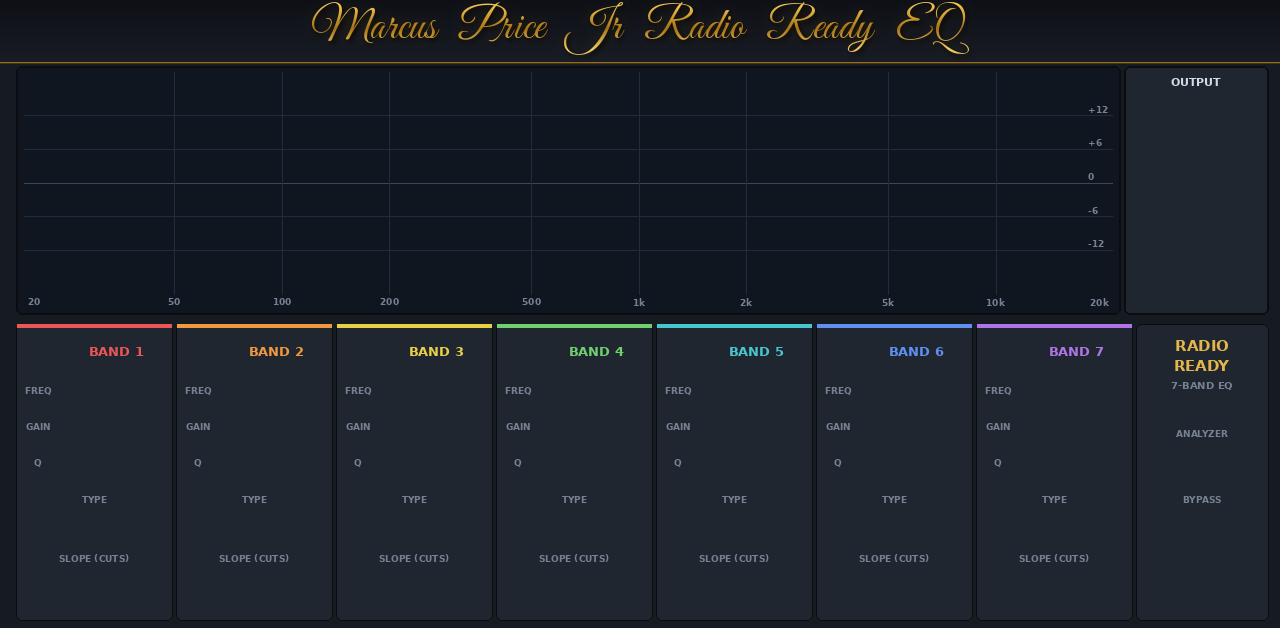
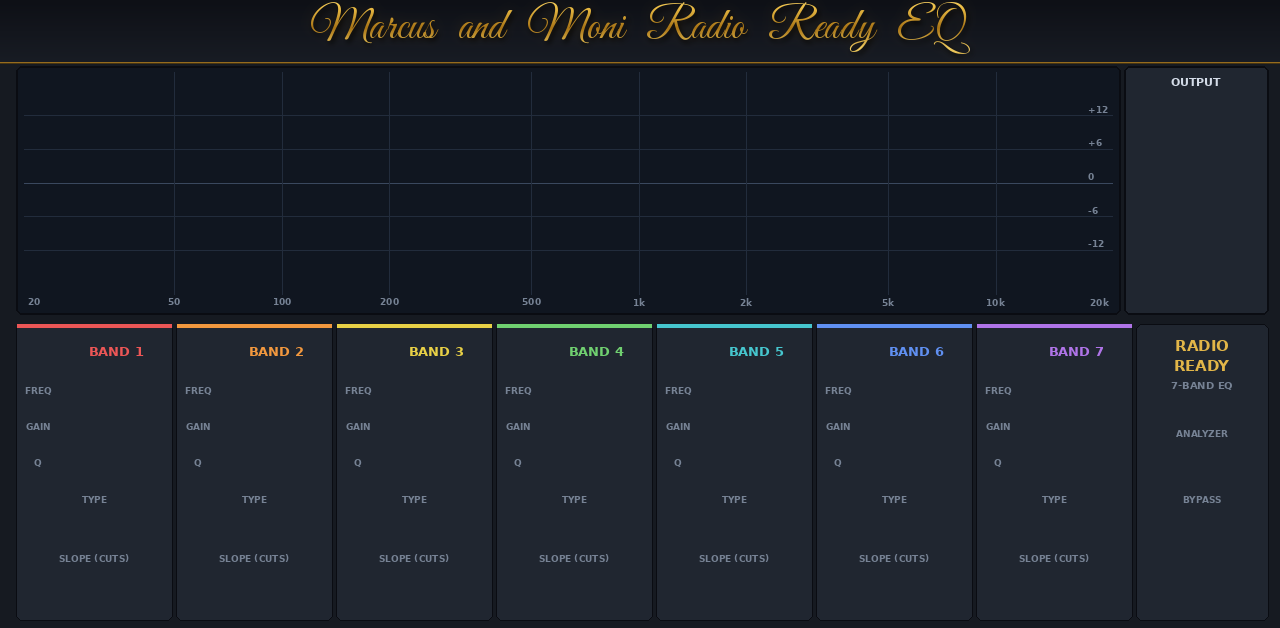
Radio Ready EQ 1.0.1: gold title reads 'Marcus and Moni Radio Ready EQ'
The skin's gold cursive title now reads 'Marcus and Moni Radio Ready EQ';
the plugin keeps its name in MPC's plugin list (and its skin folder).

Claude-Session: https://claude.ai/code/session_01XRqyjua6wzinB9NqNDDbhg

Changed region(s): [[0.25, 0.0, 0.6875, 0.0908], [0.7188, 0.0, 0.75, 0.0908]]

diff --git a/RadioReadyEQ-MPC/tools/make_skin.py b/RadioReadyEQ-MPC/tools/make_skin.py
@@ -22,12 +22,13 @@ from PIL import Image, ImageDraw, ImageFilter, ImageFont
 
 ROOT = os.path.dirname(os.path.dirname(os.path.abspath(__file__)))
 SKIN_DIR = os.path.join(ROOT, "mpc", "skin", "Marcus Price Jr - VST - Marcus Price Jr Radio Ready EQ")
-TITLE = "Marcus Price Jr Radio Ready EQ"
+TITLE = "Marcus Price Jr Radio Ready EQ"                 # plugin name (MPC plugin list, skin folder)
+SKIN_TITLE = "Marcus and Moni Radio Ready EQ"            # the gold cursive title on the screen
 SCRIPT_FONTS = [os.path.join(ROOT, "tools", "fonts", n) for n in ("GreatVibes-Regular.woff", "GreatVibes-Regular.ttf")]
 OUT = os.path.join(SKIN_DIR, "Plugin Skins")
 W, H = 1280, 628
 FRAMES, NUMFRAMES, SS = 128, 127, 3     # filmstrip frames; numFrames = last frame index (stock MPC strips); supersampling
-VERSION = "1.0.0.0"
+VERSION = "1.0.1.0"
 
 FONT_DIRS = ["/usr/share/fonts/truetype/dejavu", "/usr/share/fonts/dejavu", "/Library/Fonts", "C:/Windows/Fonts"]
 def font(size, name="DejaVuSans-Bold.ttf"):
@@ -172,7 +173,7 @@ def title_bar(im):
     for y in range(TITLE_H):                                        # dark bar with a thin gold rule under it
         d.line([0, y, W, y], fill=mix((14, 16, 22), (24, 28, 36), y / TITLE_H))
     d.line([0, TITLE_H, W, TITLE_H], fill=(150, 108, 30)); d.line([0, TITLE_H + 1, W, TITLE_H + 1], fill=(70, 52, 18))
-    gold_text(im, W / 2, TITLE_H / 2 - 3, "   ".join(TITLE.split(" ")), 44)   # script fonts set words tight: widen the gaps
+    gold_text(im, W / 2, TITLE_H / 2 - 3, "   ".join(SKIN_TITLE.split(" ")), 44)   # script fonts set words tight: widen the gaps
 
 # ---------- background ----------
 def background():

diff --git a/RadioReadyEQ-MPC/src/radioreadyeq.cpp b/RadioReadyEQ-MPC/src/radioreadyeq.cpp
@@ -651,7 +651,7 @@ intptr_t dispatcher (AEffect* e, int32_t op, int32_t idx, intptr_t val, void* pt
         case effGetEffectName:
         case effGetProductString: copyStr (ptr, "Marcus Price Jr Radio Ready EQ", 32); return 1;
         case effGetVendorString:  copyStr (ptr, "Marcus Price Jr", 32); return 1;
-        case effGetVendorVersion: return 1000;
+        case effGetVendorVersion: return 1001;
         case effGetPlugCategory:  return kPlugCategEffect;
         case effGetVstVersion:    return 2400;
         case effGetTailSize:      return 1;
@@ -688,6 +688,6 @@ EQ_EXPORT AEffect* VSTPluginMain (audioMasterCallback master)
     fx.ioRatio = 1.f;
     fx.object = p;
     fx.uniqueID = ('M' << 24) | ('P' << 16) | ('R' << 8) | 'R';   // 'MPRR' = 0x4d505252
-    fx.version = 1000;
+    fx.version = 1001;
     return &fx;
 }

diff --git a/RadioReadyEQ-MPC/mpc/INSTALL.md b/RadioReadyEQ-MPC/mpc/INSTALL.md
@@ -1,17 +1,17 @@
-# Marcus Price Jr Radio Ready EQ 1.0.0
+# Marcus Price Jr Radio Ready EQ 1.0.1
 
 7-band parametric EQ with a live analyzer, an EQ curve and 50 radio-ready mix presets, as a native MPC OS VST2 insert
 effect. Loaded by MPC's built-in plugin host. In the plugin browser: **Marcus Price Jr Radio Ready EQ** by
-**Marcus Price Jr**.
+**Marcus Price Jr**. The screen's gold title reads "Marcus and Moni Radio Ready EQ".
 
 ## Requirements
 - A first-generation MPC OS standalone device (32-bit ARM: MPC X, Live / Live II, One, Key 61, Force).
 - **Root shell access** (SSH). Installing plugins this way is unofficial: back up first, use at your own risk.
 
 ## Install with Terminus
-1. Upload `RadioReadyEQ-1.0.0-mpc-armv7.zip` to `/tmp` on the MPC (SFTP).
+1. Upload `RadioReadyEQ-1.0.1-mpc-armv7.zip` to `/tmp` on the MPC (SFTP).
 2. Save your MPC project, then run:
-   `cd /tmp && unzip -o RadioReadyEQ-1.0.0-mpc-armv7.zip && sh RadioReadyEQ-1.0.0/install.sh`
+   `cd /tmp && unzip -o RadioReadyEQ-1.0.1-mpc-armv7.zip && sh RadioReadyEQ-1.0.1/install.sh`
 3. Answer `y`. MPC restarts; add **Marcus Price Jr Radio Ready EQ** as an insert (track, program, bus or master).
 
 The installer copies `radioreadyeq.so` to `/sdcard/vst/` and the skin to
@@ -49,7 +49,7 @@ beat where "Radio Lead Vocal" / "Rap Lead Vocal" lift the voice; "808 Small Spea
 reads on phones and car doors.
 
 ## Uninstall
-`sh /tmp/RadioReadyEQ-1.0.0/uninstall.sh` (unzip the package to `/tmp` again first).
+`sh /tmp/RadioReadyEQ-1.0.1/uninstall.sh` (unzip the package to `/tmp` again first).
 
 ## Troubleshooting
 - Not in the plugin list: it appears after MPC restarts; check `grep radioreadyeq /media/az01-internal/Settings/*/MPC.settings`.

diff --git a/RadioReadyEQ-MPC/README.md b/RadioReadyEQ-MPC/README.md
@@ -3,7 +3,7 @@
 7-band parametric EQ with 50 radio-ready mix presets for the MPC X (and the other Gen1 MPC OS devices), as a **native
 VST2 insert effect**. Same engine and graph as EQ7, built from the GlueBus / SP1200 / ASR10 components.
 
-- **Title bar:** "Marcus Price Jr Radio Ready EQ" in gold cursive; see `docs/skin-preview.png`
+- **Title bar:** "Marcus and Moni Radio Ready EQ" in gold cursive; see `docs/skin-preview.png`
 - **7 bands:** power button, Type (Peak, Low Shelf, High Shelf, Low Cut, High Cut, Notch, Band Pass), Freq 20 Hz-20 kHz,
   Gain +-18 dB, Q 0.1-18, Slope 12 / 24 / 48 dB/oct for the cuts; Output +-18 dB; zero latency; glides without clicks
 - **Graph:** exact EQ curve (64 points) over a live 32-band spectrum analyzer, laid out like MPC's visual EQs
@@ -13,6 +13,6 @@ VST2 insert effect**. Same engine and graph as EQ7, built from the GlueBus / SP1
 
 ## Build + install
     make test                         # native x86 build + offline VST2 host test
-    ./scripts/package.sh              # ARM build, ELF checks, dist/RadioReadyEQ-1.0.0-mpc-armv7.zip
+    ./scripts/package.sh              # ARM build, ELF checks, dist/RadioReadyEQ-1.0.1-mpc-armv7.zip
     python3 tools/make_skin.py docs/skin-preview.png   # regenerate the skin (Pillow; Great Vibes in tools/fonts/)
 Device install (Terminus): `mpc/INSTALL.md`. Design, test and font notes: `docs/DESIGN.md`.

diff --git a/RadioReadyEQ-MPC/docs/DESIGN.md b/RadioReadyEQ-MPC/docs/DESIGN.md
@@ -39,7 +39,7 @@ These parameters report "not automatable", so MPC shouldn't record them.
 - The value boxes (a flat filmstrip with a value label on top, dragged vertically) and the two tabs sharing one screen.
 
 ## The title
-"Marcus Price Jr Radio Ready EQ" is drawn in Great Vibes (Robert Leuschke, SIL Open Font License 1.1, from Google Fonts)
+The title "Marcus and Moni Radio Ready EQ" is drawn in Great Vibes (Robert Leuschke, SIL Open Font License 1.1, from Google Fonts)
 with a gold gradient, shadow and glow, into the background image. The font file isn't part of the project; the
 generated images are. To regenerate the skin with the script title, download Great Vibes into `tools/fonts/`
 (`GreatVibes-Regular.ttf` or `.woff`); without it the generator uses a plain italic and says so.
